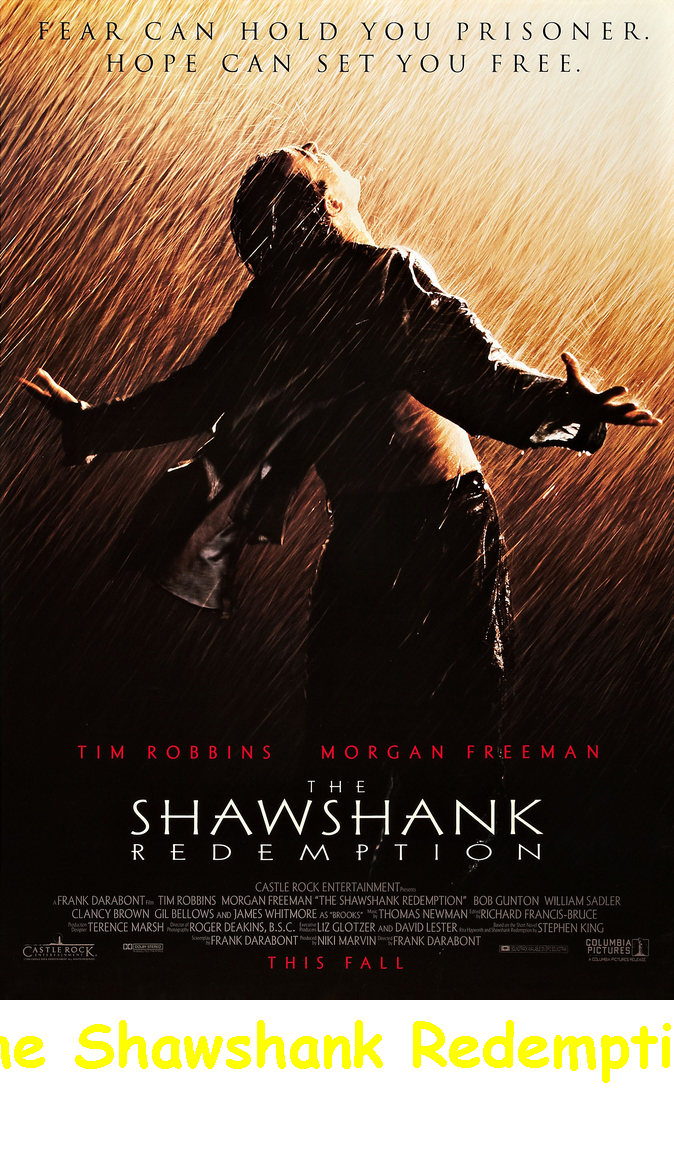
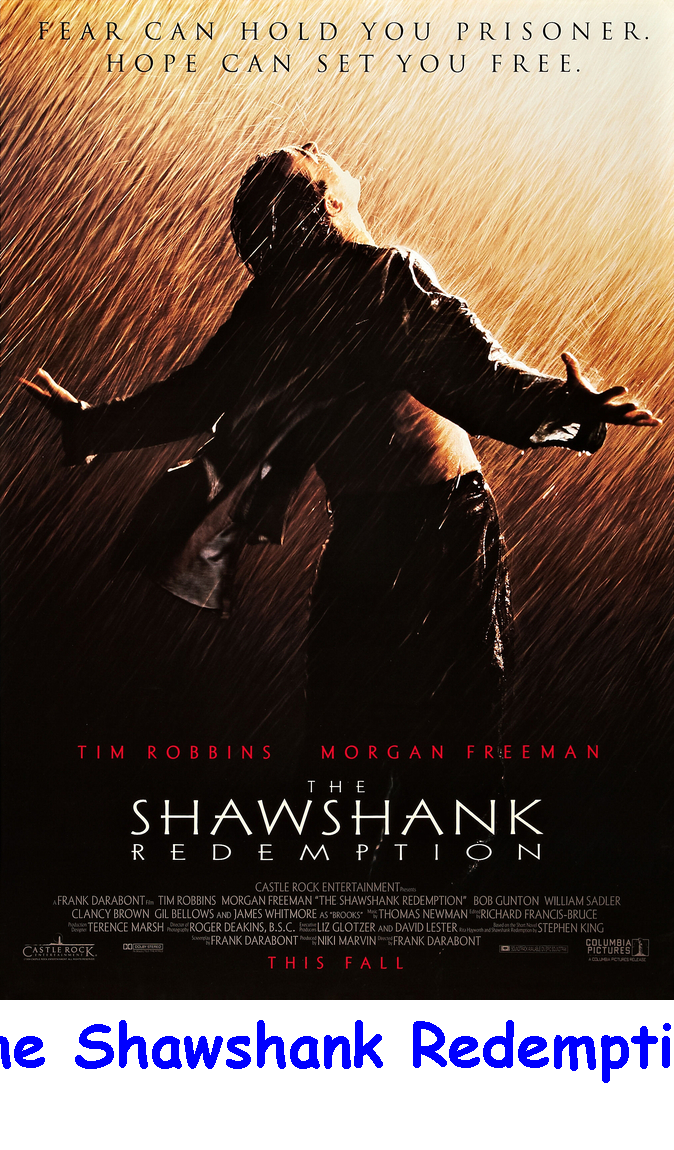
Alterações da aula 03

Changed region(s): [[0.0935, 0.8826, 0.5608, 0.9435], [0.592, 0.8826, 0.997, 0.9435], [0.0, 0.8826, 0.0623, 0.9435]]

diff --git a/src/GeradoraDeFigurinhas.java b/src/GeradoraDeFigurinhas.java
@@ -47,7 +47,7 @@ public class GeradoraDeFigurinhas
 
         // Configurar a fonte e cor
         Font fonte = new Font("Comic Sans MS", Font.BOLD, fontSize);
-        graphics.setColor(Color.YELLOW);
+        graphics.setColor(Color.BLUE);
         graphics.setFont(fonte);
 
         int[] espacamentosSuperiores = new int[partes.length];
@@ -72,27 +72,6 @@ public class GeradoraDeFigurinhas
         {
             graphics.drawString(partes[i], espacamentosLaterais[i], espacamentosSuperiores[i]);
         }
-
-        //Colocando contorno no texto
-        /*
-        for (int i=0; i<partes.length;i++) 
-        {
-            FontRenderContext fontRenderContext = graphics.getFontRenderContext();
-            AffineTransform affineTransform = graphics.getTransform();
-
-            TextLayout textLayout = new TextLayout(partes[i], fonte, fontRenderContext);
-            Shape shape = textLayout.getOutline(null);
-            
-            affineTransform.translate(espacamentosLaterais[i], espacamentosSuperiores[i]);
-            graphics.setTransform(affineTransform);
-
-            Stroke Stroke = new BasicStroke(3.0f);
-            graphics.setStroke(Stroke);
-
-            graphics.setColor(Color.BLUE);
-            graphics.draw(shape);
-            graphics.setClip(shape);
-        }*/
 
         //Verifica se o diretório de saída existe. Se não existir, cria o diretório.
         File diretorioSaida = new File("saida");

diff --git a/src/App.java b/src/App.java
@@ -6,7 +6,7 @@ public class App
 {
     public static void main(String[] args) throws Exception 
     {
-        API api = API.NASA;
+        API api = API.IMDB_TOP_MOVIES;
         
         String url = api.getUrl();
         ExtratorDeConteudo extrator = api.getExtrator();
